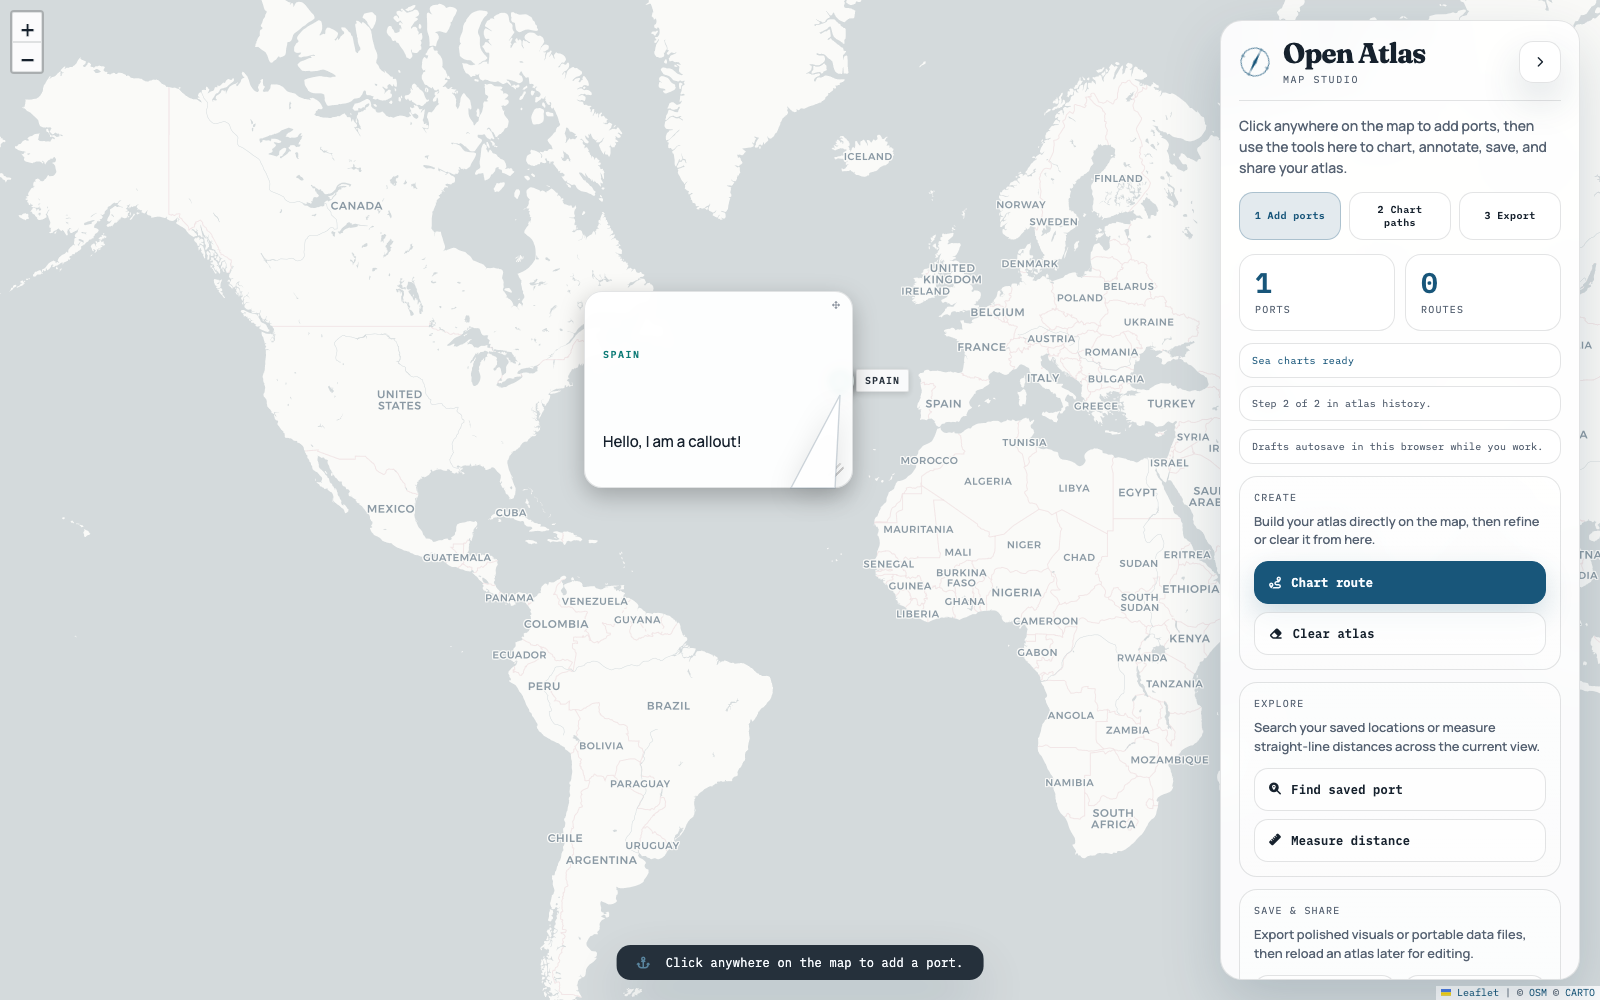
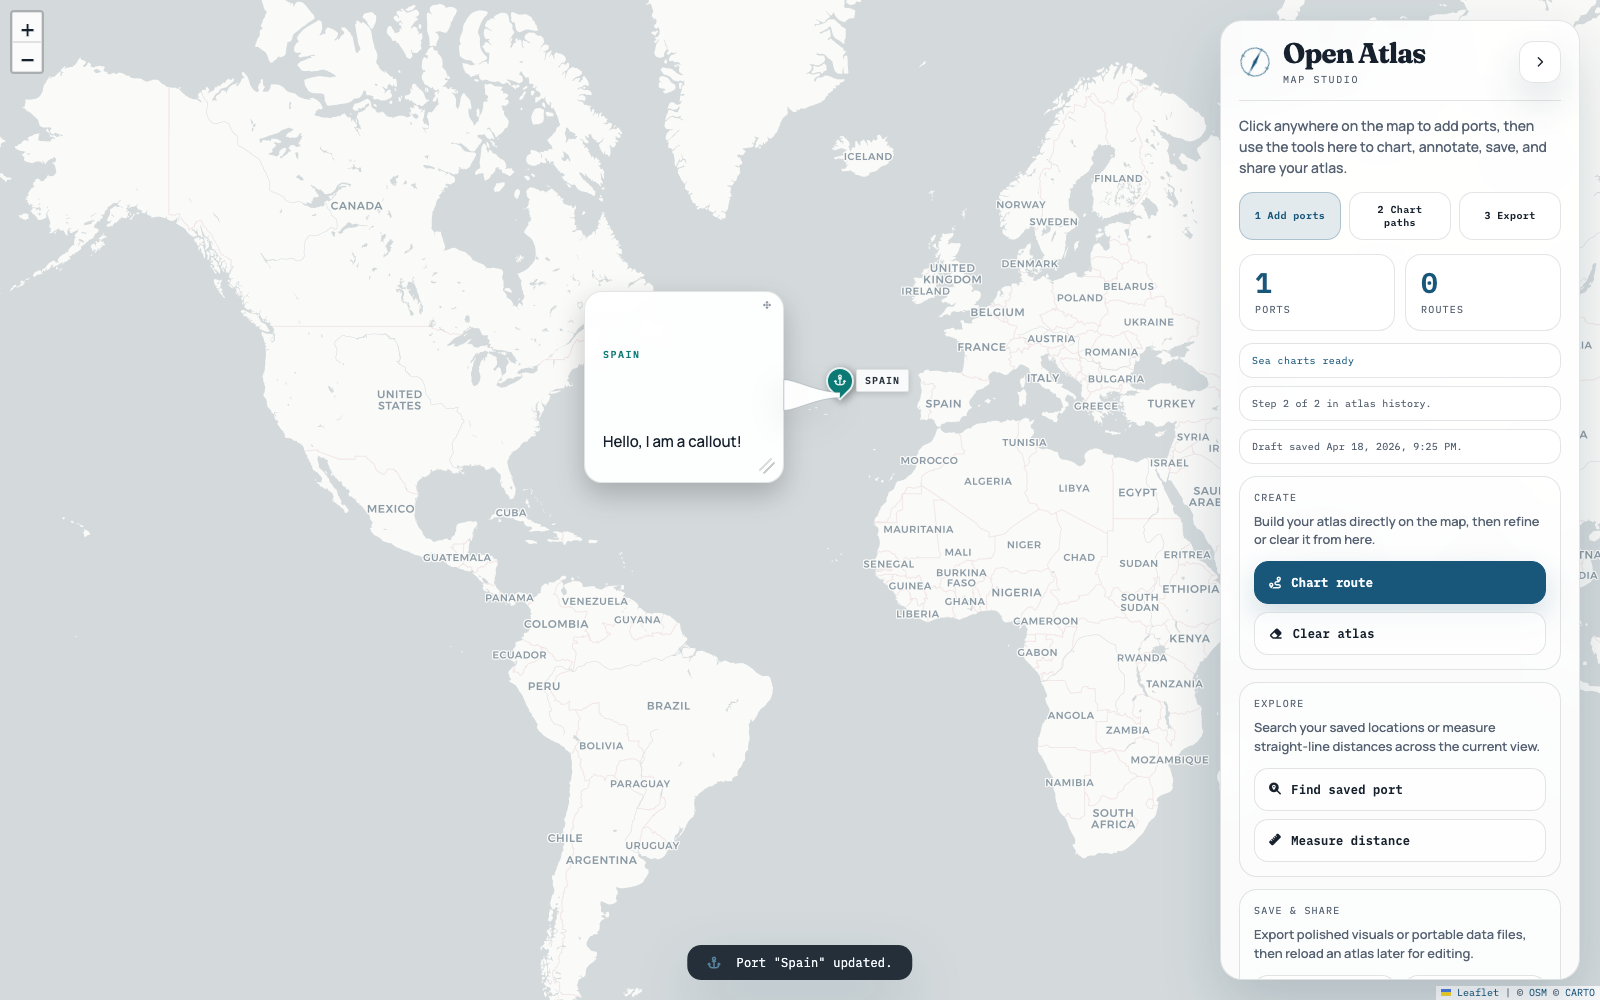
Polish callout tail styling

Changed region(s): [[0.375, 0.279, 0.5312, 0.527], [0.375, 0.93, 0.625, 0.992], [0.8438, 0.434, 0.9062, 0.465]]

diff --git a/assets/scripts/app.js b/assets/scripts/app.js
@@ -1256,42 +1256,72 @@
     const rect = { left, top, right: left + width, bottom: top + height };
     const anchor = { x: anchorX, y: anchorY };
     const radius = 18;
-    const baseHalf = clamp(14, Math.min(width, height) * 0.12, 22);
+    const baseHalf = clamp(10, Math.min(width, height) * 0.08, 18);
     let p1;
     let p2;
+    let baseCenter;
 
     if (anchor.x < rect.left) {
       const cy = clamp(anchor.y, rect.top + radius + baseHalf, rect.bottom - radius - baseHalf);
       p1 = { x: rect.left, y: cy - baseHalf };
       p2 = { x: rect.left, y: cy + baseHalf };
+      baseCenter = { x: rect.left, y: cy };
     } else if (anchor.x > rect.right) {
       const cy = clamp(anchor.y, rect.top + radius + baseHalf, rect.bottom - radius - baseHalf);
       p1 = { x: rect.right, y: cy + baseHalf };
       p2 = { x: rect.right, y: cy - baseHalf };
+      baseCenter = { x: rect.right, y: cy };
     } else if (anchor.y < rect.top) {
       const cx = clamp(anchor.x, rect.left + radius + baseHalf, rect.right - radius - baseHalf);
       p1 = { x: cx + baseHalf, y: rect.top };
       p2 = { x: cx - baseHalf, y: rect.top };
+      baseCenter = { x: cx, y: rect.top };
     } else {
       const cx = clamp(anchor.x, rect.left + radius + baseHalf, rect.right - radius - baseHalf);
       p1 = { x: cx - baseHalf, y: rect.bottom };
       p2 = { x: cx + baseHalf, y: rect.bottom };
+      baseCenter = { x: cx, y: rect.bottom };
     }
 
-    const localAnchor = anchor;
-    const localP1 = p1;
-    const localP2 = p2;
-    const control1 = {
-      x: localP1.x + (localAnchor.x - localP1.x) * 0.58,
-      y: localP1.y + (localAnchor.y - localP1.y) * 0.58
+    const dx = anchor.x - baseCenter.x;
+    const dy = anchor.y - baseCenter.y;
+    const distance = Math.max(1, Math.hypot(dx, dy));
+    const ux = dx / distance;
+    const uy = dy / distance;
+    const px = -uy;
+    const py = ux;
+    const tipHalf = clamp(2.5, distance * 0.03, 5);
+    const tip1 = { x: anchor.x + px * tipHalf, y: anchor.y + py * tipHalf };
+    const tip2 = { x: anchor.x - px * tipHalf, y: anchor.y - py * tipHalf };
+    const curvePull = Math.min(70, distance * 0.42);
+    const basePull = Math.min(42, distance * 0.22);
+    const control1a = {
+      x: p1.x + ux * basePull,
+      y: p1.y + uy * basePull
     };
-    const control2 = {
-      x: localP2.x + (localAnchor.x - localP2.x) * 0.58,
-      y: localP2.y + (localAnchor.y - localP2.y) * 0.58
+    const control1b = {
+      x: tip1.x - ux * curvePull,
+      y: tip1.y - uy * curvePull
+    };
+    const control2a = {
+      x: tip2.x - ux * curvePull,
+      y: tip2.y - uy * curvePull
+    };
+    const control2b = {
+      x: p2.x + ux * basePull,
+      y: p2.y + uy * basePull
+    };
+    const baseReturn1 = {
+      x: p2.x + (baseCenter.x - p2.x) * 0.42,
+      y: p2.y + (baseCenter.y - p2.y) * 0.42
+    };
+    const baseReturn2 = {
+      x: p1.x + (baseCenter.x - p1.x) * 0.42,
+      y: p1.y + (baseCenter.y - p1.y) * 0.42
     };
 
     return {
-      path: `M ${localP1.x} ${localP1.y} Q ${control1.x} ${control1.y} ${localAnchor.x} ${localAnchor.y} Q ${control2.x} ${control2.y} ${localP2.x} ${localP2.y} Z`
+      path: `M ${p1.x} ${p1.y} C ${control1a.x} ${control1a.y} ${control1b.x} ${control1b.y} ${tip1.x} ${tip1.y} Q ${anchor.x} ${anchor.y} ${tip2.x} ${tip2.y} C ${control2a.x} ${control2a.y} ${control2b.x} ${control2b.y} ${p2.x} ${p2.y} C ${baseReturn1.x} ${baseReturn1.y} ${baseReturn2.x} ${baseReturn2.y} ${p1.x} ${p1.y} Z`
     };
   }
 

diff --git a/assets/styles/app.css b/assets/styles/app.css
@@ -574,9 +574,10 @@
   }
   .bubble-tail-svg path {
     fill: var(--label-bg);
-    stroke: rgba(118, 138, 156, 0.34);
-    stroke-width: 1.4;
-    filter: drop-shadow(0 7px 14px rgba(0,0,0,0.12));
+    stroke: rgba(118, 138, 156, 0.26);
+    stroke-width: 1.1;
+    stroke-linejoin: round;
+    filter: drop-shadow(0 10px 18px rgba(0,0,0,0.11));
   }
   .info-bubble {
     position: absolute;
@@ -588,7 +589,7 @@
     font-family: var(--font-body);
     font-size: 15px;
     line-height: 1.4;
-    box-shadow: 0 8px 24px rgba(0,0,0,0.25);
+    box-shadow: 0 12px 28px rgba(0,0,0,0.22);
     cursor: move;
     min-width: 168px;
     min-height: 116px;
